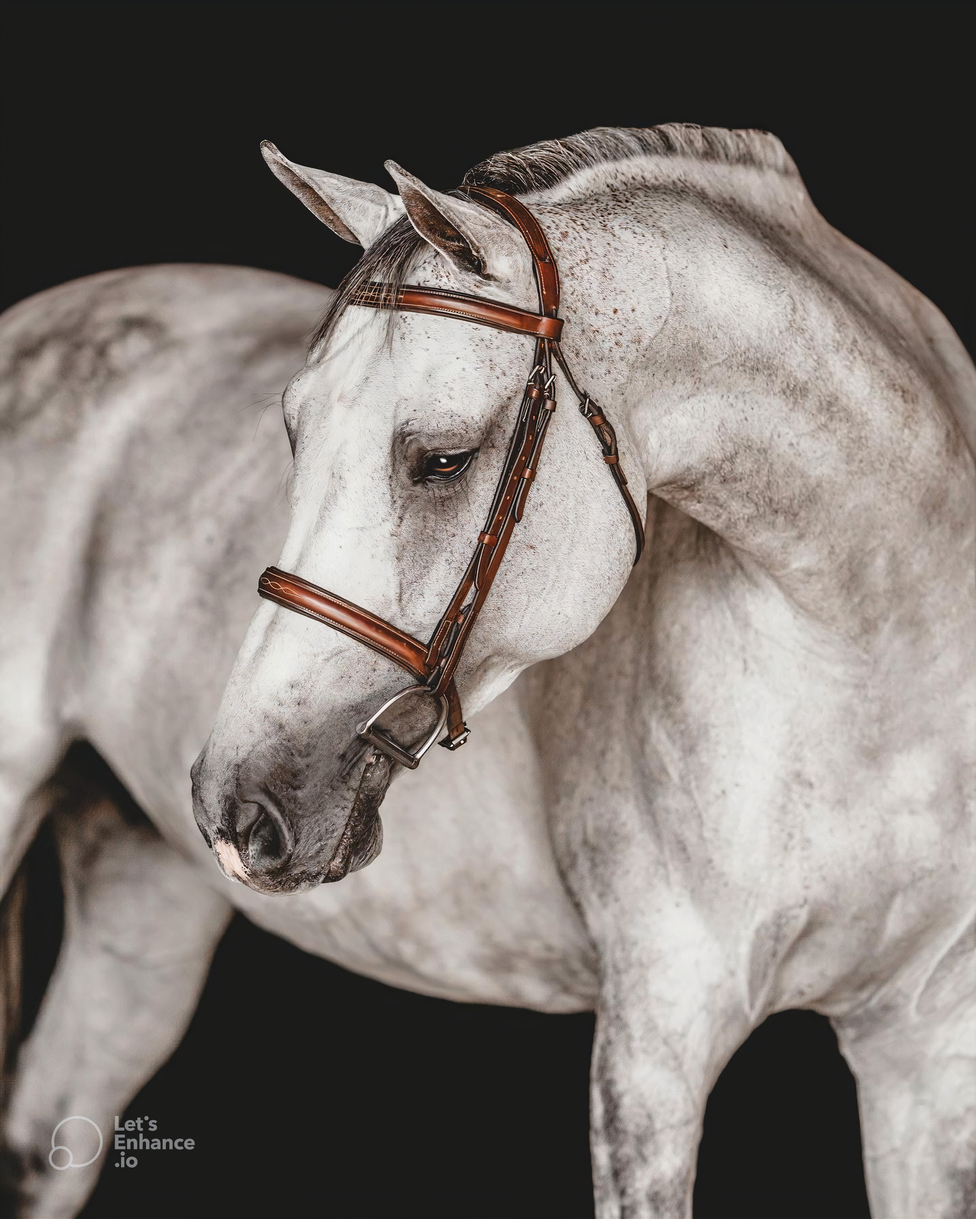
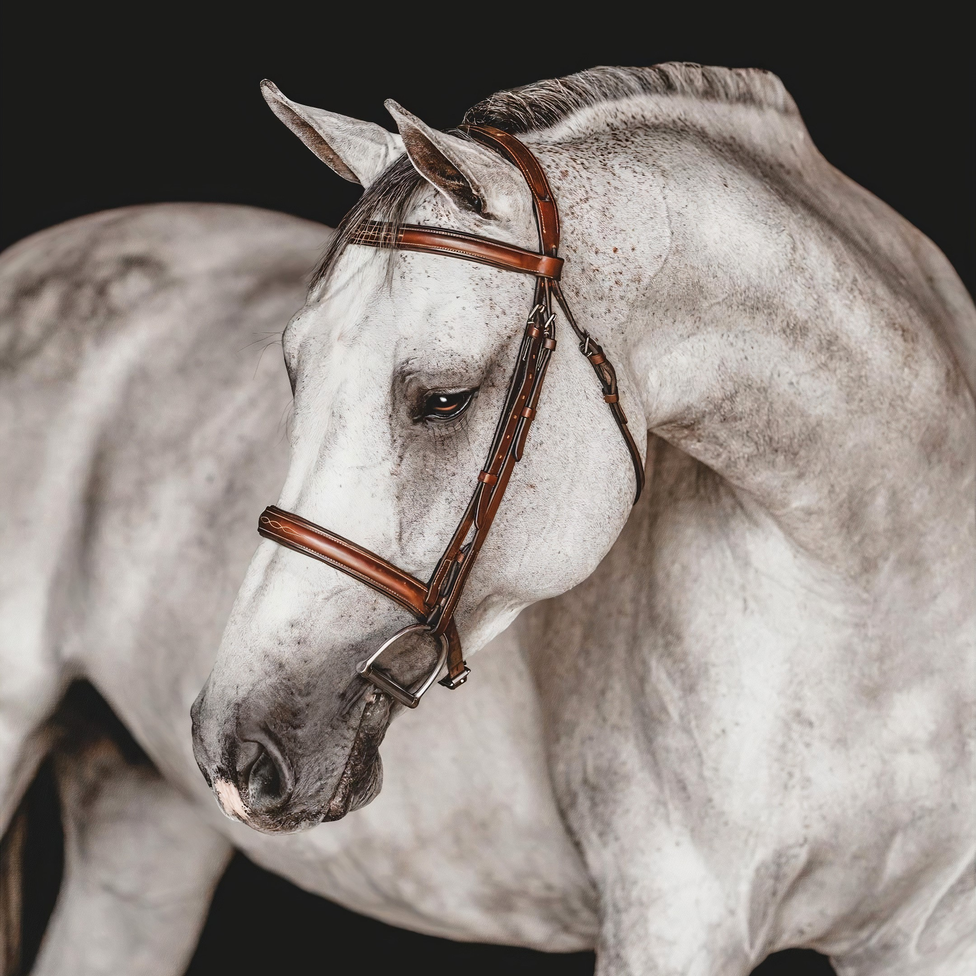
grid(horses)

diff --git a/src/Pages/Home/Home-Parts/HomeHorses.jsx b/src/Pages/Home/Home-Parts/HomeHorses.jsx
@@ -1,0 +1,44 @@
+import React, { useState } from 'react'
+import "../../Home/Home.scss";
+
+export default function HomeHorses() {
+  const [horses] = useState([
+    {
+      id: 1,
+      img: "../../../public/E/H-horse1_LE_photos_v2_x2.jpg"
+    },
+    {
+      id: 2,
+      img: "../../../public/E/H-horse2_LE_photos_v2_x2.jpg"
+    },
+    {
+      id: 3,
+      img: "../../../public/E/H-horse3_LE_photos_v2_x2.jpg"
+    },
+    {
+      id: 4,
+      img: "../../../public/E/H-horse4_LE_photos_v2_x2.jpg"
+    },
+    {
+      id: 5,
+      img: "../../../public/E/H-horse5_LE_photos_v2_x2.jpg"
+    },
+    {
+      id: 6,
+      img: "../../../public/E/H-horse6_LE_photos_v2_x2.jpg"
+    },
+  ])
+  return (
+    <div className='Home-Horses'>
+      <div className='Home-Container'>
+        {
+          horses.map(e => {
+            return(
+              <img className={`Home-Horse${e.id}`} key={e.id} src={e.img}/>
+            )
+          })
+        }
+      </div>
+    </div>
+  )
+}

diff --git a/src/Pages/Home/Home.scss b/src/Pages/Home/Home.scss
@@ -145,4 +145,48 @@ body {
       font-weight: 600;
     }
   }
+
+  .Home-Horses {
+    width: 100%;
+    margin-top: 90px;
+    margin-bottom: 90px;
+    display: flex;
+    justify-content: center;
+    align-items: center;
+
+    .Home-Container {
+      width: 1500px;
+      height: 650px;
+      display: grid;
+      grid-template-columns: repeat(30, 50px);
+      grid-template-rows: repeat(13, 50px);
+
+      .Home-Horse1 {
+        grid-area: 5/1/10/7;
+        background-color: rgb(0, 255, 255);
+        width: 300px;
+      }
+
+      .Home-Horse2 {
+        grid-area: 1/10/7/16;
+        width: 300px;
+      }
+      .Home-Horse3 {
+        grid-area: 8/8/13/13;
+        width: 250px;
+      }
+      .Home-Horse4 {
+        grid-area: 2/19/7/23;
+        width: 250px;
+      }
+      .Home-Horse5 {
+        grid-area: 8/16/13/21;
+        width: 300px;
+      }
+      .Home-Horse6 {
+        grid-area: 5/25/10/31;
+        width: 300px;
+      }
+    }
+  }
 }

diff --git a/src/Pages/Home/Home.jsx b/src/Pages/Home/Home.jsx
@@ -4,6 +4,7 @@ import HomeMain from "./Home-Parts/HomeMain";
 import HomeWCU from "./Home-Parts/HomeWCU";
 import HomePiranha from "./Home-Parts/HomePiranha";
 import HomeHistory from "./Home-Parts/HomeHistory";
+import HomeHorses from "./Home-Parts/HomeHorses";
 
 export default function Home() {
   return (
@@ -12,6 +13,7 @@ export default function Home() {
       <HomeWCU />
       <HomePiranha/>
       <HomeHistory/>
+      <HomeHorses/>
     </div>
   );
 }
